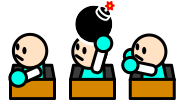
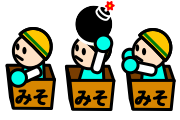
アイテム取得エフェクト変更、プレイヤー画像変更

diff --git a/script/MainGame.js b/script/MainGame.js
@@ -114,7 +114,7 @@ var MainGame = /** @class */ (function (_super) {
             scene: scene,
             src: scene.assets["player"],
             width: 60,
-            height: 100,
+            height: 120,
             frames: [0, 1, 2],
             x: 430,
             y: 100
@@ -269,7 +269,7 @@ var MainGame = /** @class */ (function (_super) {
                 }
                 timer.destroy();
                 item.touchable = false;
-                timeline.create(item).moveBy(0, -20, 200).con().scaleTo(0, 1, 100)
+                timeline.create(item).scaleTo(0, 1, 100)
                     .scaleTo(1, 1, 100).wait(600).call(function () {
                     item.destroy();
                 });

diff --git a/src/MainGame.ts b/src/MainGame.ts
@@ -121,7 +121,7 @@ export class MainGame extends g.E {
 			scene: scene,
 			src: scene.assets["player"] as g.ImageAsset,
 			width: 60,
-			height: 100,
+			height: 120,
 			frames: [0, 1, 2],
 			x: 430,
 			y: 100
@@ -299,7 +299,7 @@ export class MainGame extends g.E {
 				}
 				timer.destroy();
 				item.touchable = false;
-				timeline.create(item).moveBy(0, -20, 200).con().scaleTo(0, 1, 100)
+				timeline.create(item).scaleTo(0, 1, 100)
 					.scaleTo(1, 1, 100).wait(600).call(() => {
 						item.destroy();
 					});
